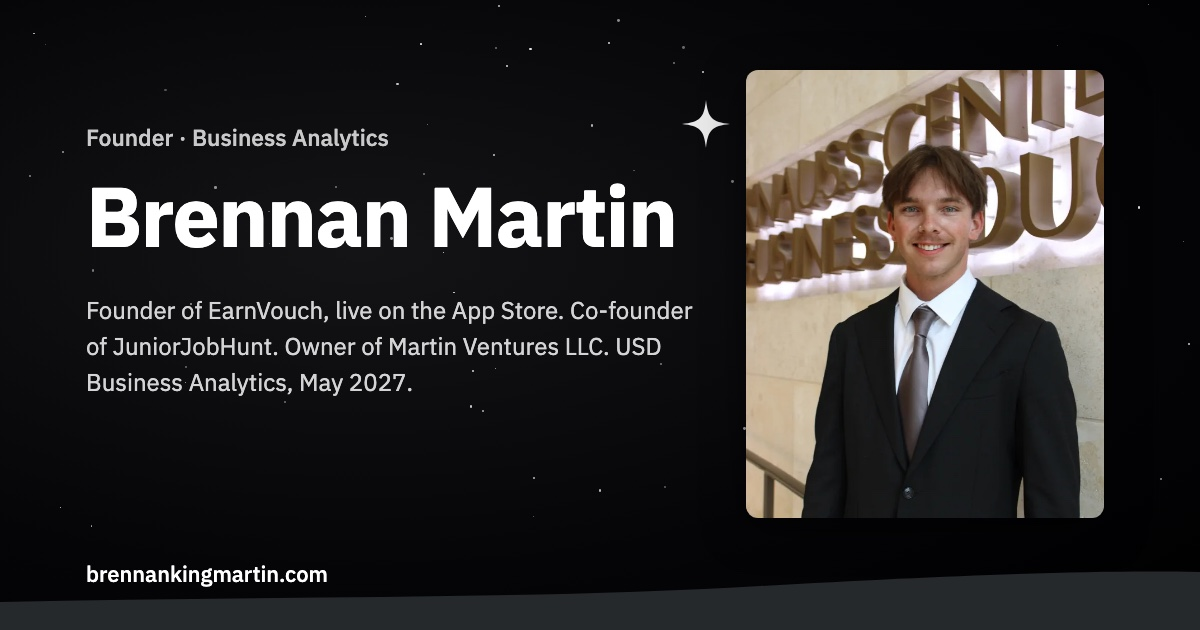
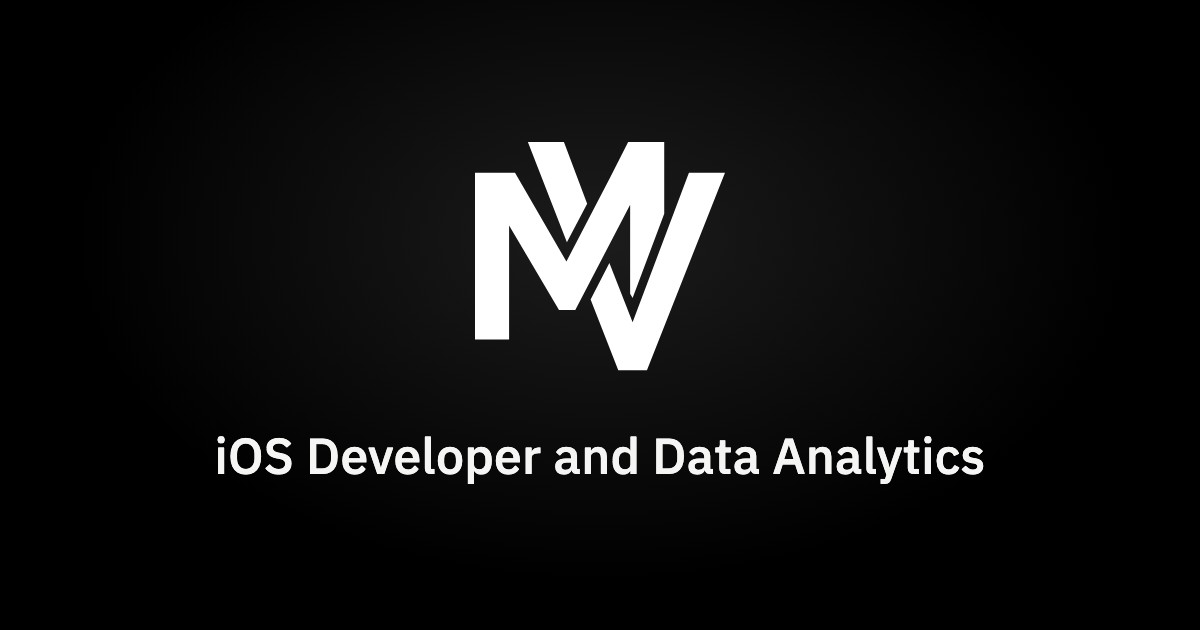
Grandma showcase like EarnVouch, drop founder wording, new link preview
Grandma: Family Circle gets the same showcase layout as EarnVouch
(screenshots, highlights, details table, App Store link). The apps are
described as built and owned, not founded; Brennan is founder of Martin
Ventures LLC. Link preview card is now the MV logo with
iOS Developer and Data Analytics.

diff --git a/index.html b/index.html
@@ -8,21 +8,21 @@
 <link rel="icon" type="image/png" href="favicon.png?v=3">
 <link rel="apple-touch-icon" href="apple-touch-icon.png?v=3">
 <title>Brennan Martin | Independent Developer</title>
-<meta name="description" content="Brennan Martin is an independent developer, owner of Martin Ventures LLC and founder of EarnVouch. He has two iPhone apps live on the App Store, builds websites, apps and business tools for clients, co-founded JuniorJobHunt, and is a Business Analytics senior at the University of San Diego (May 2027).">
+<meta name="description" content="Brennan Martin is an independent developer and founder of Martin Ventures LLC. He built and owns two iPhone apps live on the App Store, EarnVouch and Grandma: Family Circle, builds websites, apps and business tools for clients, co-founded JuniorJobHunt, and is a Business Analytics senior at the University of San Diego (May 2027).">
 <meta property="og:title" content="Brennan Martin">
-<meta property="og:description" content="Independent developer, owner of Martin Ventures LLC and founder of EarnVouch. Websites, apps and business tools. USD Business Analytics, May 2027.">
+<meta property="og:description" content="Independent developer and founder of Martin Ventures LLC. Two iPhone apps on the App Store, plus websites and business tools for clients. USD Business Analytics, May 2027.">
 <meta property="og:type" content="website">
 <meta property="og:url" content="https://brennankingmartin.com/">
 <meta property="og:site_name" content="Brennan Martin">
-<meta property="og:image" content="https://brennankingmartin.com/images/share-card.jpg?v=4">
+<meta property="og:image" content="https://brennankingmartin.com/images/share-card.jpg?v=5">
 <meta property="og:image:type" content="image/jpeg">
 <meta property="og:image:width" content="1200">
 <meta property="og:image:height" content="630">
-<meta property="og:image:alt" content="Brennan Martin, Founder, with his headshot on a night-sky background">
+<meta property="og:image:alt" content="The Martin Ventures MV logo above the words iOS Developer and Data Analytics">
 <meta name="twitter:card" content="summary_large_image">
 <meta name="twitter:title" content="Brennan Martin">
-<meta name="twitter:description" content="Independent developer, owner of Martin Ventures LLC and founder of EarnVouch. Websites, apps and business tools. USD Business Analytics, May 2027.">
-<meta name="twitter:image" content="https://brennankingmartin.com/images/share-card.jpg?v=4">
+<meta name="twitter:description" content="Independent developer and founder of Martin Ventures LLC. Two iPhone apps on the App Store, plus websites and business tools for clients. USD Business Analytics, May 2027.">
+<meta name="twitter:image" content="https://brennankingmartin.com/images/share-card.jpg?v=5">
 <link rel="canonical" href="https://brennankingmartin.com/">
 <meta name="theme-color" content="#000000">
 <link rel="preconnect" href="https://fonts.googleapis.com">
@@ -534,7 +534,7 @@
     <div class="wrap hero-foot">
       <div>
         <h1 class="hero-name">Brennan Martin</h1>
-        <p class="lede">I'm an independent developer and the owner of <strong>Martin Ventures LLC</strong>. I founded <strong>EarnVouch</strong> and built <strong>Grandma: Family Circle</strong>, both live on the App Store, and I build websites, apps and business tools for clients. I'm a Business Analytics senior at the University of San Diego, I co-founded <strong>JuniorJobHunt</strong>, and I've run my own contracting business since 2020.</p>
+        <p class="lede">I'm an independent developer and the founder of <strong>Martin Ventures LLC</strong>. I built and own two iPhone apps live on the App Store, <strong>EarnVouch</strong> and <strong>Grandma: Family Circle</strong>, and I build websites, apps and business tools for clients. I'm a Business Analytics senior at the University of San Diego, I co-founded <strong>JuniorJobHunt</strong>, and I've run my own contracting business since 2020.</p>
         <span class="open-to">Taking on client projects · Open to full-time roles in analytics and AI starting 2027</span>
       </div>
       <div class="hero-cta">
@@ -571,7 +571,7 @@
     <div class="about-grid">
       <p class="about-lead">I started a contracting business in 2020 and built it to $100K+ in revenue through door-to-door outreach, Nextdoor and referrals. I tracked every job in spreadsheets, and the numbers showed land clearing paid the most per hour. So I moved my marketing and crew time toward it. In Summer 2026 that meant about $40K in revenue in three months with a team of 3.</p>
       <div>
-        <p>That habit of using data to decide where effort goes carries into everything I build. In 2026 I founded EarnVouch, now live on the App Store and run through my company, Martin Ventures LLC. I work in R, SQL and Excel, and my USD coursework covers data management, decision modeling and marketing analytics. I also use AI tools every day to speed up the work and build what the analysis calls for, from reporting apps to automations.</p>
+        <p>That habit of using data to decide where effort goes carries into everything I build. I founded Martin Ventures LLC and built two iPhone apps through it, EarnVouch and Grandma: Family Circle, both live on the App Store. I work in R, SQL and Excel, and my USD coursework covers data management, decision modeling and marketing analytics. I also use AI tools every day to speed up the work and build what the analysis calls for, from reporting apps to automations.</p>
         <p>What I'm best at is the customer side: pitching, scoping and pricing work, and getting a decision-maker to yes. Through Martin Ventures I take on client projects, and I'm open to a full-time role where I can turn data into decisions and explain them to the people who make them, on an analytics team or deploying AI with customers.</p>
       </div>
       <aside class="fact-card">
@@ -596,7 +596,7 @@
     </div>
     <div>
       <div class="venture">
-        <span class="kicker">Founder · Oct 2026 to present · Live on the App Store</span>
+        <span class="kicker">iPhone app · Oct 2026 to present · Live on the App Store</span>
         <h3>EarnVouch</h3>
         <p>A free iPhone app for students 14 to 24 to keep a client-confirmed record of their gig work, which they can share with colleges and employers. A month before launch it was an empty folder. I took it to the App Store with a production app, API, website and moderation tool, built for minors' privacy and safety from day one.</p>
         <div class="phones">
@@ -626,6 +626,35 @@
       </div>
 
       <div class="venture">
+        <span class="kicker">iPhone app · Nov 2026 to present · Live on the App Store</span>
+        <h3>Grandma: Family Circle</h3>
+        <p>An iPhone app for grandmas and their families. Grandma gets one screen with six big buttons: family photos, her calendar, a daily question, one-tap calls, gift lists and trivia. The family gets a fuller app and keeps her screen full, all inside one private circle joined by a code.</p>
+        <div class="phones">
+          <img src="images/gm-1-home.webp" alt="Grandma's home screen: Good evening, Nana, with six big buttons for Memories, Calendar, Daily question, Call family, Gift lists and Trivia" width="600" height="1304" loading="lazy" decoding="async">
+          <img src="images/gm-2-feed.webp" alt="The family's feed: a new lake sunset photo from Emma, Nana's latest answer and what's coming up" width="600" height="1304" loading="lazy" decoding="async">
+          <img src="images/gm-3-question.webp" alt="Daily question: What did you love most about summers at the lake? with Nana's saved answer" width="600" height="1304" loading="lazy" decoding="async">
+          <img src="images/gm-4-call.webp" alt="Call family: a page of faces, one tap starts a FaceTime call" width="600" height="1304" loading="lazy" decoding="async">
+        </div>
+        <div class="venture-points">
+          <div><b>Idea to App Store in under a week</b>First commit on November 19, live on the App Store on November 24, 2026</div>
+          <div><b>2,000+ automated tests</b>Database security rules and app screens, checked on every change across 120+ merged pull requests</div>
+          <div><b>Built for grandma</b>Big buttons, every screen on her side fits at the largest text size, and changes are announced for VoiceOver</div>
+        </div>
+        <dl class="tech">
+          <dt>Stack</dt><dd>TypeScript · Expo / React Native · Supabase (Postgres)</dd>
+          <dt>Auth</dt><dd>Sign in with Apple · Declared Age Range API (13+)</dd>
+          <dt>Privacy</dt><dd>One family per circle, joined by a code · row-level security · in-app account deletion</dd>
+          <dt>Payments</dt><dd>Apple in-app subscriptions, verified by its own server with Apple</dd>
+          <dt>Safety</dt><dd>Reports go to the family's admins · hide anyone for yourself · word filter</dd>
+          <dt>Rigor</dt><dd>2,000+ automated tests · CI on every pull request · lawyer-reviewed privacy policy and terms</dd>
+        </dl>
+        <div class="venture-ctas">
+          <a class="btn" href="https://apps.apple.com/us/app/grandma-family-circle/id6837512539" target="_blank" rel="noopener">Get it on the App Store ↗</a>
+          <a class="card-link" href="https://grandmafamilycircle.com" target="_blank" rel="noopener">grandmafamilycircle.com ↗</a>
+        </div>
+      </div>
+
+      <div class="venture">
         <span class="kicker">Co-Founder · Winter 2023 to Nov 2026</span>
         <h3>JuniorJobHunt</h3>
         <p>JuniorJobHunt connected local high school and college students with neighbors who needed small everyday tasks done. It won $16,000 in grants through pitch competitions.</p>
@@ -641,18 +670,6 @@
       </div>
 
       <div class="projects">
-        <article class="project has-media">
-          <figure class="media media-natural">
-            <img src="images/grandma.webp" alt="Three screens from Grandma: Family Circle: grandma's home with six big buttons, the family's feed with a new photo and her latest answer, and a daily question she has answered" width="1400" height="950" loading="lazy" decoding="async">
-          </figure>
-          <div class="project-text">
-          <span class="when">Nov 2026 · Live on the App Store</span>
-          <h3 class="with-icon"><img class="app-icon" src="images/grandma-icon.webp" alt="" width="160" height="160" loading="lazy" decoding="async">Grandma: Family Circle</h3>
-          <p>An iPhone app for grandmas and their families. Grandma gets one screen with six big buttons: family photos, her calendar, a daily question, one-tap calls, gift lists and trivia. The family shares everything in a private circle joined by a code. Every grandma screen works at the largest text size. It went from first commit to the App Store in under a week.</p>
-          <div class="tags"><span>iOS</span><span>React Native</span><span>Supabase</span><span>Sign in with Apple</span></div>
-          <a class="card-link" href="https://apps.apple.com/us/app/grandma-family-circle/id6837512539" target="_blank" rel="noopener">See it on the App Store ↗</a>
-          </div>
-        </article>
         <article class="project has-media">
           <figure class="media media-natural">
             <img src="images/field-service-app.webp" alt="The app's Summer 2026 Client Directory screen, with Directory, Schedule, Outreach and Stats tabs and filters for priority, repeat clients and job status" width="900" height="839" loading="lazy" decoding="async">
@@ -762,12 +779,13 @@
       <div class="job">
         <time>Oct 2026 to present</time>
         <div>
-          <h3>Founder</h3>
-          <div class="org">EarnVouch · Martin Ventures LLC</div>
+          <h3>Founder and Owner</h3>
+          <div class="org">Martin Ventures LLC · iPhone apps and client work</div>
           <ul>
-            <li>Launched EarnVouch, a free iPhone app for students 14 to 24 to keep a client-confirmed record of their gig work, on the App Store in November 2026</li>
+            <li>Built and launched EarnVouch, a free iPhone app for students 14 to 24 to keep a client-confirmed record of their gig work, on the App Store in November 2026</li>
             <li>Wrote the product spec (more than 200 logged decisions), threat model and data model; passed Apple's review on the first submission</li>
             <li>Reworked the design after a lawyer reviewed the rules for minors' data</li>
+            <li>Built and launched Grandma: Family Circle, an iPhone app for grandmas and their families, on the App Store in November 2026, under a week after the first commit</li>
           </ul>
         </div>
       </div>
